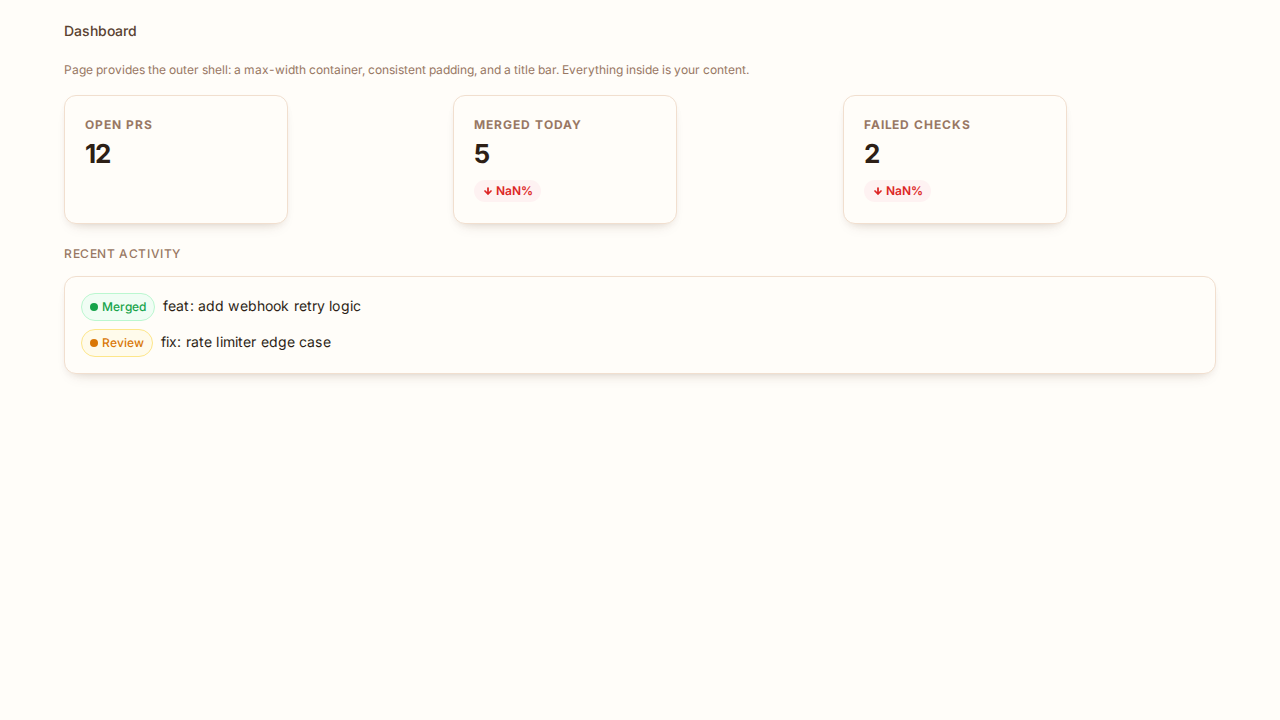
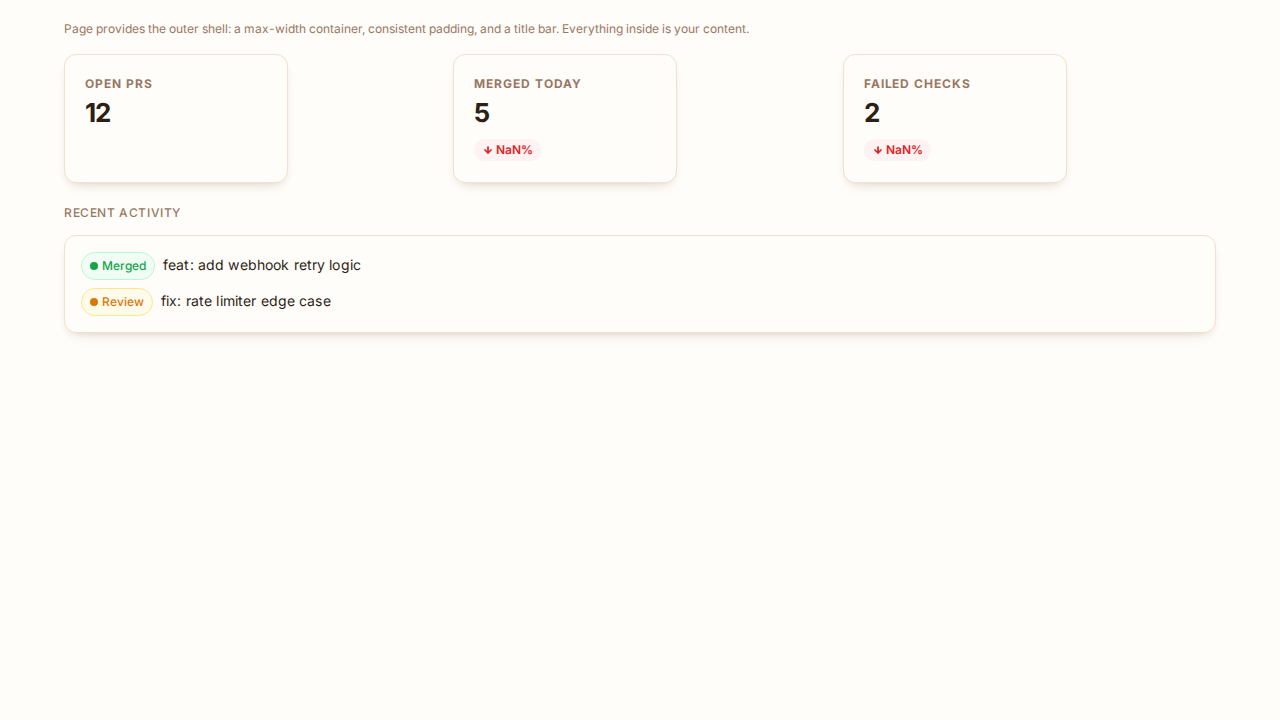
Remove inline title from Page layout component (#250)

diff --git a/packages/storybook-components/src/layout/Page.tsx b/packages/storybook-components/src/layout/Page.tsx
@@ -16,15 +16,16 @@ const maxWidthStyles: Record<PageMaxWidth, string> = {
   full: "max-w-full",
 };
 
-/** Page layout — title is inline content, no separate header bar. */
-export function Page({ title, headerActions, maxWidth = "lg", children }: PageProps) {
+/** Page layout — title is shown in the global nav, not repeated inline. */
+export function Page({ title: _title, headerActions, maxWidth = "lg", children }: PageProps) {
   return (
     <div className="min-h-screen bg-[color:var(--color-bg)] text-[color:var(--color-text)] font-[family-name:var(--font-sans)]">
       <main className={`mx-auto px-6 py-5 ${maxWidthStyles[maxWidth]}`}>
-        <div className="flex items-center justify-between mb-5">
-          <h1 className="text-[length:var(--text-sm)] font-medium text-[color:var(--color-text-secondary)]">{title}</h1>
-          {headerActions !== undefined && <div className="flex items-center gap-3">{headerActions}</div>}
-        </div>
+        {headerActions !== undefined && (
+          <div className="flex items-center justify-end mb-5">
+            <div className="flex items-center gap-3">{headerActions}</div>
+          </div>
+        )}
         {children}
       </main>
     </div>
